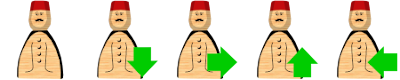
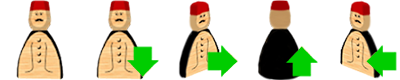
Fixing dice bug + changing assam asset

diff --git a/marrakech.css b/marrakech.css
@@ -80,14 +80,12 @@
   width: 80px;
   height: 80px;
   background-image: url('img/marrakech_assam.png');
-  background-position: 25% 0%;
   z-index: 500;
-  transition: transform 0.5s;
 }
-#assam[data-dir="0"] { transform:rotate(180deg); }
-#assam[data-dir="1"] { transform:rotate(-90deg); }
-#assam[data-dir="2"] { transform:rotate(0deg); }
-#assam[data-dir="3"] { transform:rotate(90deg); }
+#assam[data-dir="0"] { background-position: 75% 0%; }
+#assam[data-dir="1"] { background-position: 50% 0%; }
+#assam[data-dir="2"] { background-position: 25% 0%; }
+#assam[data-dir="3"] { background-position: 100% 0%;}
 
 .next_direction {
   position: absolute;
@@ -110,20 +108,20 @@
   border: 1px #333 solid;
   z-index: 10;
   box-sizing: border-box;
-  box-shadow:4px 4px 15px -4px #222;
+  box-shadow:4px 4px 6px -4px #222;
 }
 
-.carpet_h { width: 140px; height: 70px; }
-.carpet_v { width: 70px; height: 140px; }
+.carpet_h { width: 160px; height: 80px; }
+.carpet_v { width: 80px; height: 160px; }
 
 .carpet_yellow_h, .carpet_1_h { background-position: 0px 0px; }
-.carpet_yellow_v, .carpet_1_v { background-position: 0px -140px; }
-.carpet_red_h, .carpet_2_h { background-position: -140px 0px; }
-.carpet_red_v, .carpet_2_v { background-position: -70px -140px; }
-.carpet_orange_h, .carpet_3_h { background-position: 0px -70px; }
-.carpet_orange_v, .carpet_3_v { background-position: -140px -140px; }
-.carpet_blue_h, .carpet_4_h { background-position: -140px -70px; }
-.carpet_blue_v, .carpet_4_v { background-position: -210px -140px; }
+.carpet_yellow_v, .carpet_1_v { background-position: 0px -160px; }
+.carpet_red_h, .carpet_2_h { background-position: -160px 0px; }
+.carpet_red_v, .carpet_2_v { background-position: -80px -160px; }
+.carpet_orange_h, .carpet_3_h { background-position: 0px -80px; }
+.carpet_orange_v, .carpet_3_v { background-position: -160px -160px; }
+.carpet_blue_h, .carpet_4_h { background-position: -160px -80px; }
+.carpet_blue_v, .carpet_4_v { background-position: -240px -160px; }
 
 .carpet_info {
   display: inline-block;
@@ -189,7 +187,6 @@
   height:100%;
   transform-style:preserve-3d;
  	transform-origin:center center;
-	transition: 3s transform ease-in;
 	animation-timing-function: linear;
   animation-duration: 1.5s;
 }

diff --git a/marrakech.js b/marrakech.js
@@ -200,7 +200,7 @@ addCarpetOnBoard: function(carpet, animation){
 
   if(animation){
     this.placeOnObject(carpetId, 'overall_player_board_'+ carpet.pId );
-    this.slideToObjectPos(carpetId, squareId, horiz? 10 : 5, horiz? 5 : 10, 1000).play();
+    this.slideToObjectPos(carpetId, squareId, 0, 0, 1000).play();
   } else {
     this.placeOnObjectPos(carpetId, squareId, horiz? 40 : 0, horiz? 0 : 40);
   }
@@ -268,7 +268,6 @@ notif_rollDice: function(n){
   if(n.args.face == 0)
     dojo.attr('dice', 'data-show', '0');
   else {
-    dojo.attr('dice', 'data-show', n.args.face);
     dojo.addClass("dice", "roll");
     setTimeout( () => {
       dojo.attr('dice', 'data-show', n.args.face);
